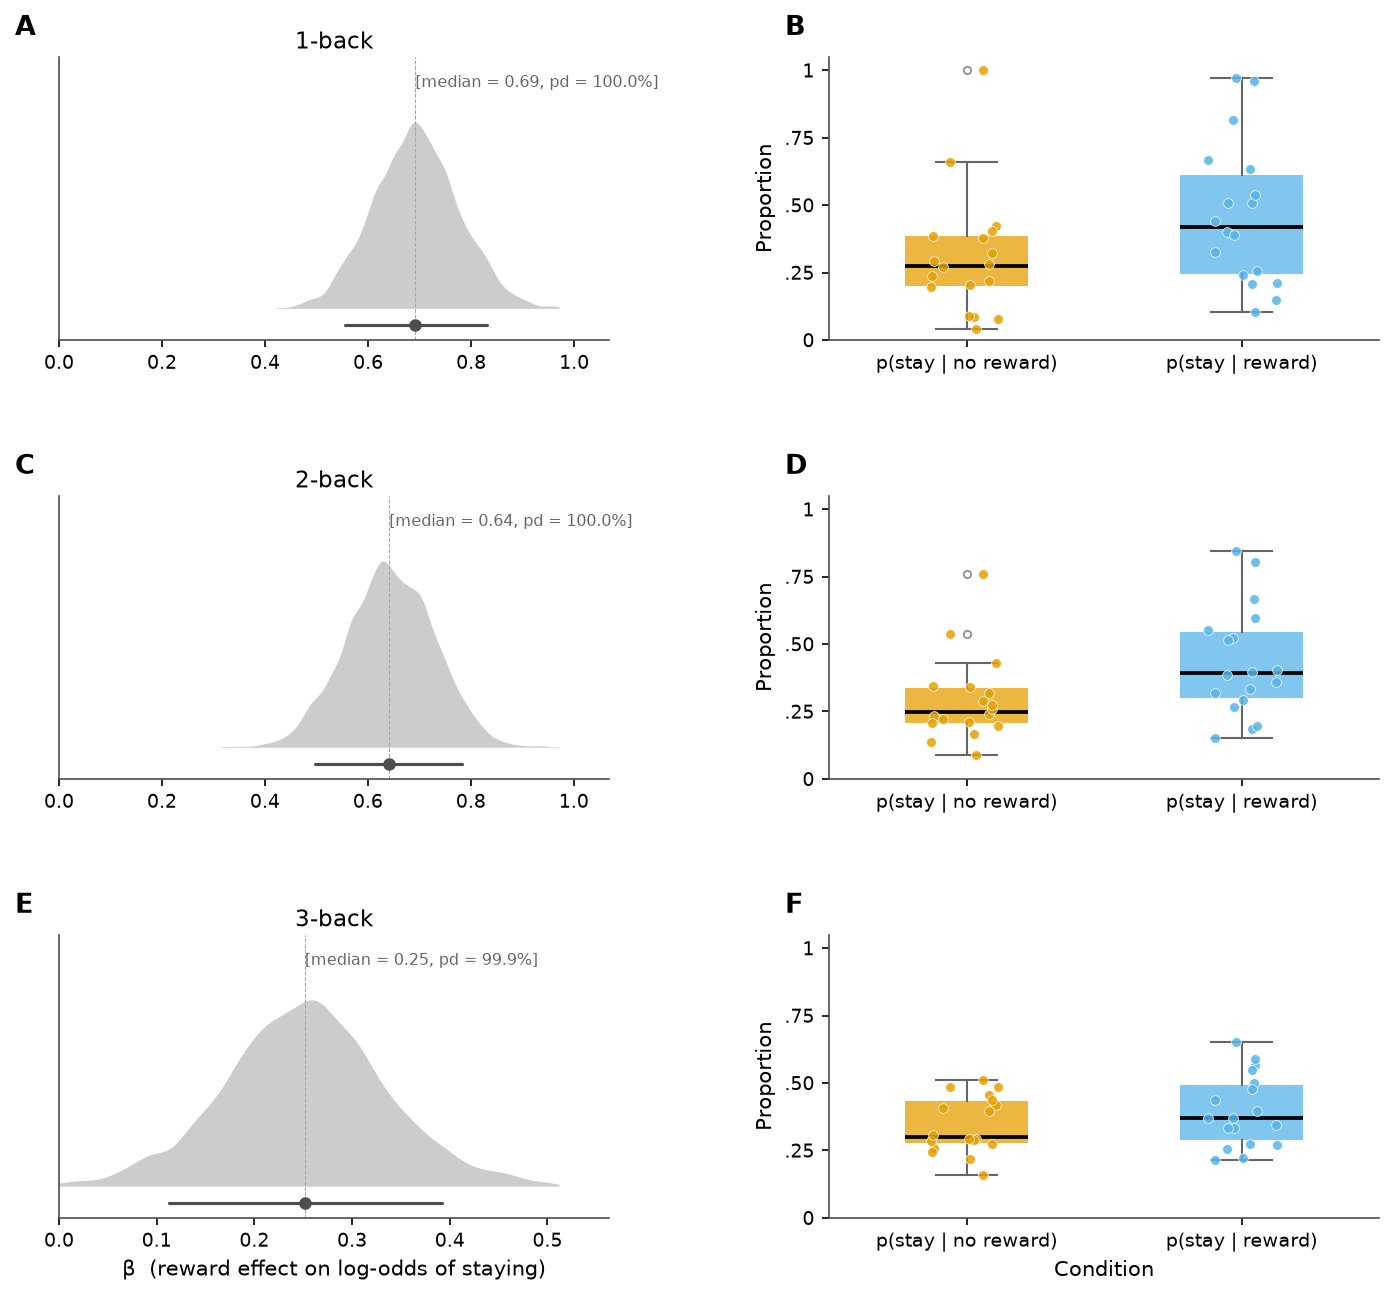
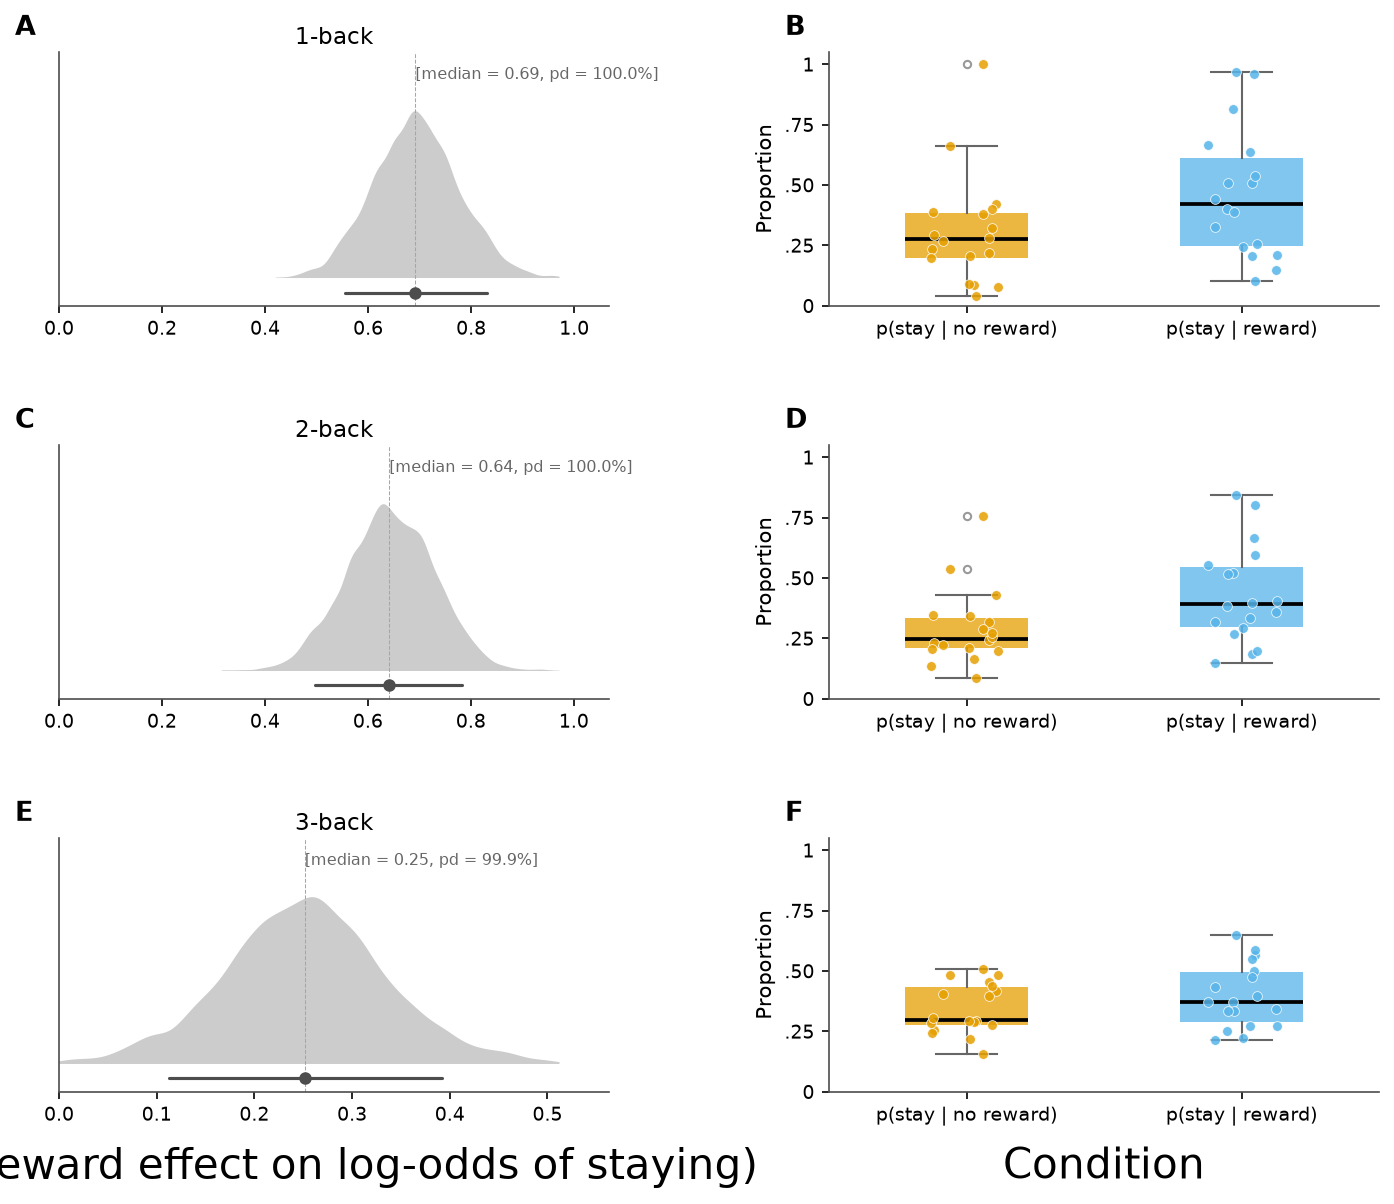
Step 3: font-20 bottom axis titles with extra padding and bottom margin
Claude-Session: https://claude.ai/code/session_012x9xnxMCjZRKf3pY757v2o

diff --git a/analysis/wsls_pilot/run_wsls_pilot.py b/analysis/wsls_pilot/run_wsls_pilot.py
@@ -135,7 +135,7 @@ def beta_panel(ax, beta_draws, lag_label, add_xlabel=False):
     ax.set_ylim(CI_Y - 0.08, 1.35)
     ax.set_title(lag_label, fontsize=BASE_FS, pad=4)
     if add_xlabel:
-        ax.set_xlabel("β  (reward effect on log-odds of staying)", fontsize=BASE_FS - 1)
+        ax.set_xlabel("β  (reward effect on log-odds of staying)", fontsize=20, labelpad=10)
 
     ax.spines["top"].set_visible(False)
     ax.spines["right"].set_visible(False)
@@ -182,7 +182,7 @@ def box_panel(ax, props, add_xlabel=False):
     ax.set_yticks([0, 0.25, 0.5, 0.75, 1.0])
     ax.set_yticklabels(["0", ".25", ".50", ".75", "1"], fontsize=BASE_FS - 3)
     if add_xlabel:
-        ax.set_xlabel("Condition", fontsize=BASE_FS - 1)
+        ax.set_xlabel("Condition", fontsize=20, labelpad=10)
     ax.set_ylabel("Proportion", fontsize=BASE_FS - 1)
 
     ax.spines["top"].set_visible(False)
@@ -207,7 +207,7 @@ for lag in [1, 2, 3]:
 # ── figure — vertical layout: 3 lag rows × 2 columns (beta | boxplot) ─────────
 fig, axes = plt.subplots(3, 2, figsize=(10, 9))
 fig.patch.set_facecolor("white")
-fig.subplots_adjust(hspace=0.55, wspace=0.40, left=0.09, right=0.97, top=0.95, bottom=0.09)
+fig.subplots_adjust(hspace=0.55, wspace=0.40, left=0.09, right=0.97, top=0.95, bottom=0.18)
 
 panel_labels = "ABCDEF"
 for row, lag in enumerate([1, 2, 3]):
